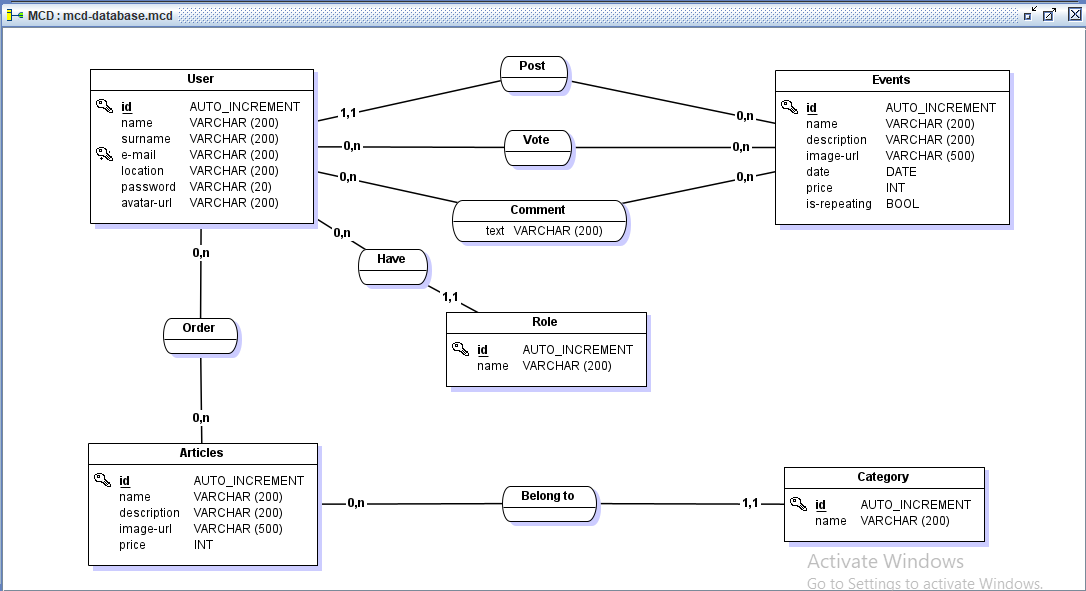
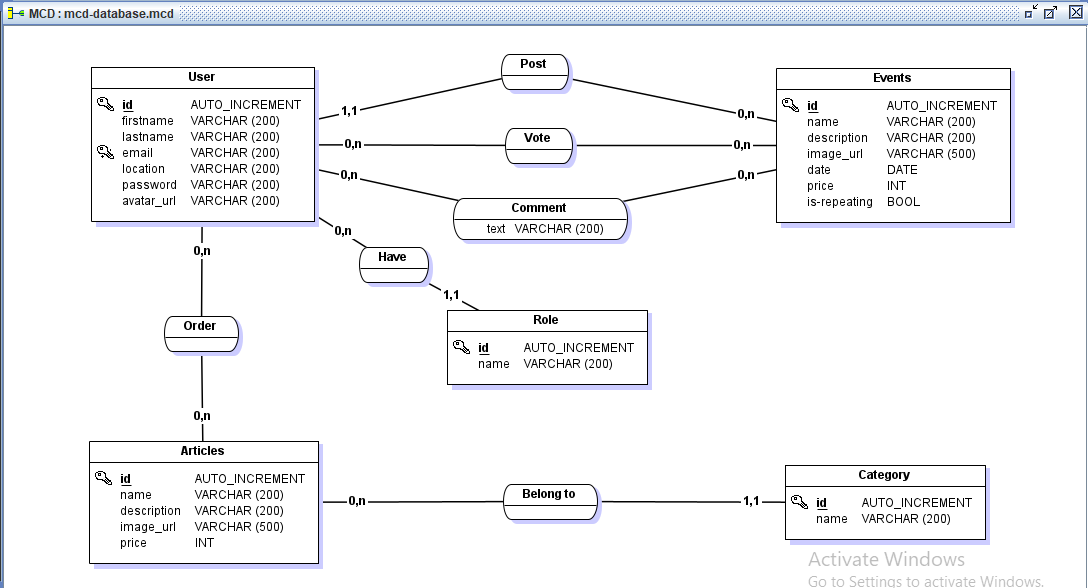
nodejs api, database-conception and mcd-database updated

diff --git a/api-rest/models/user.js b/api-rest/models/user.js
@@ -6,10 +6,10 @@ module.exports = {
 	// Define a prepared statement for creating a user
   create : (data, callBack) => {
     pool.query (
-      " INSERT INTO users (name, surname, email, location, password, avatar_url, id_events) VALUES (?, ?, ?, ?, ?, ?, ?)",
+      " INSERT INTO users (firstname, lastname, email, location, password, avatar_url, id_events) VALUES (?, ?, ?, ?, ?, ?, ?)",
       [
-        data.name,
-				data.surname,
+        data.firstname,
+				data.lastname,
 				data.email,
 				data.location,
 				data.password,
@@ -58,10 +58,10 @@ module.exports = {
 	// Define a prepared statement for updating a user
 	UpdateUser : (id, data, callBack) => {
 		pool.query(
-			"UPDATE users set name=?, surname=?, email=?, location=?, password=?, avatar_url=?, id_events=? WHERE id = ?",
+			"UPDATE users set firstname=?, lastname=?, email=?, location=?, password=?, avatar_url=?, id_events=? WHERE id = ?",
 			[
-				data.name,
-				data.surname,
+				data.firstname,
+				data.lastname,
 				data.email,
 				data.location,
 				data.password,

diff --git a/api-rest/models/event.js b/api-rest/models/event.js
@@ -43,7 +43,7 @@ module.exports = {
 	// Define a prepared statement for getting an event by user location
 	getEventsByLocation : (location, callBack) => {
 		pool.query(
-			"SELECT events.id, events.name, events.description, events.image_url, events.date, events.price, events.is_repeating FROM users INNER JOIN events ON users.id_events = events.id WHERE users.location = ? ORDER BY events.id ASC",
+			"SELECT events.id, events.name, events.description, events.image_url, events.date, events.price, events.is_repeating FROM users INNER JOIN events ON events.id_user = users.id WHERE users.location = ? ORDER BY events.id ASC",
 			[location],
 			(error, results, fields) => {
 				if (error) {

diff --git a/api-rest/models/article.js b/api-rest/models/article.js
@@ -41,7 +41,7 @@ module.exports = {
 	// Define a prepared statement for updating an article by user location
 	getArticlesByLocation : (location, callBack) => {
 		pool.query(
-			"SELECT articles.id, articles.name, articles.description, articles.image_url,articles.price FROM (articles NATURAL JOIN orders) INNER JOIN users ON orders.id_user = users.id WHERE users.location = ? ORDER BY articles.id",
+			"SELECT articles.id, articles.name, articles.description, articles.image_url, articles.price FROM (articles NATURAL JOIN orders) INNER JOIN users ON orders.id_user = users.id WHERE users.location = ? ORDER BY articles.id",
 			[location],
 			(error, results, fields) => {
 				if (error) {

diff --git a/app/resources/views/auth/login.blade.php b/app/resources/views/auth/login.blade.php
@@ -12,7 +12,8 @@
         <img src="{{asset('images/events.jpg')}}" class="img-fluid hero" alt="Hero image">
       </div>
       <div class="col-md-8 col-lg-6 col-xl-4 offset-xl-1">
-        <form>
+        <form method="POST">
+            @csrf
           <div class="d-flex flex-row align-items-center justify-content-center justify-content-lg-start">
             <h1 class="">Login</h1>
           </div>
@@ -22,13 +23,13 @@
           <!-- Email input -->
           <div class="form-outline mb-3">
             <label for="email">E-mail address</label>
-            <input type="email" id="email" class="form-control">
+            <input type="email" name="email" id="email" class="form-control">
           </div>
 
           <!-- Password input -->
           <div class="form-outline mb-3">
             <label for="password">Password</label>
-            <input type="password" id="password" class="form-control">
+            <input type="password" name="password" id="password" class="form-control">
           </div>
 
           <div class="d-flex justify-content-between align-items-center">
@@ -43,7 +44,7 @@
           </div>
 
           <div class="text-center text-lg-start mt-4 pt-2">
-            <button type="button" class="btn btn-primary btn-lg">Login</button>
+            <button type="submit" class="btn btn-primary btn-lg">Login</button>
             <p class="small fw-bold mt-2 pt-1 mb-0">Don't have an account ? <a href="register" class="link-info">Register</a></p>
           </div>
 

diff --git a/app/resources/views/auth/signup.blade.php b/app/resources/views/auth/signup.blade.php
@@ -37,7 +37,6 @@
               </div>
             </div>
 
-
             <div class="form-outline mb-3">
               <label class="form-label" for="form2Example18">E-mail address</label>
               <input type="email" name="email" id="email" class="form-control ">
@@ -56,10 +55,10 @@
             <div class="form-outline mb-3">
               <label class="form-label" for="password_confirm">Location</label>
               <select class="form-select" name="location" id="location">
-                <option value="">CESI Douala</option>
-                <option value="">CESI Rouen</option>
-                <option value="">CESI Paris</option>
-                <option value="">CESI Montpellier</option>
+                <option value="Douala">CESI Douala</option>
+                <option value="Rouen">CESI Rouen</option>
+                <option value="Paris">CESI Paris</option>
+                <option value="Montpellier">CESI Montpellier</option>
               </select>
             </div>
 

diff --git a/app/resources/views/templates/master.blade.php b/app/resources/views/templates/master.blade.php
@@ -37,10 +37,18 @@
                             <li><a href="#">About Us</a></li>
                             <li class="scroll-to-section"><a href="#contact">Contact Us</a></li>
 
+                            @if(Auth::user())
+                            <div class="cta d-flex gap-3">
+                                <a href="#">{{Auth::user()->surname}}</a>
+                                <a href="/logout">Logout</a>
+                            </div>
+    
+                            @else
                             <div class="cta d-flex gap-3">
                                 <a href="/login" class="btn btn-tertiary">Log In</a>
-                                <a href="/signup" class="btn btn-primary">Sign Up</a>
+                                <a href="/register" class="btn btn-primary">Sign Up</a>
                             </div>
+                            @endif
                         </ul>
 
                         <a class='menu-trigger'>

diff --git a/app/routes/auth.php b/app/routes/auth.php
@@ -51,6 +51,6 @@ Route::middleware('auth')->group(function () {
 
     Route::post('confirm-password', [ConfirmablePasswordController::class, 'store']);
 
-    Route::post('logout', [AuthenticatedSessionController::class, 'destroy'])
+    Route::get('logout', [AuthenticatedSessionController::class, 'destroy'])
                 ->name('logout');
 });

diff --git a/app/app/Models/User.php b/app/app/Models/User.php
@@ -34,13 +34,4 @@ class User extends Authenticatable
     protected $hidden = [
         'password',
     ];
-
-    /**
-     * The attributes that should be cast.
-     *
-     * @var array<string, string>
-     */
-    protected $casts = [
-        'email_verified_at' => 'datetime',
-    ];
 }

diff --git a/app/app/Http/Middleware/RedirectIfAuthenticated.php b/app/app/Http/Middleware/RedirectIfAuthenticated.php
@@ -23,7 +23,7 @@ class RedirectIfAuthenticated
 
         foreach ($guards as $guard) {
             if (Auth::guard($guard)->check()) {
-                return redirect(RouteServiceProvider::HOME);
+                return redirect('/');
             }
         }
 

diff --git a/app/app/Http/Controllers/Auth/AuthenticatedSessionController.php b/app/app/Http/Controllers/Auth/AuthenticatedSessionController.php
@@ -32,7 +32,7 @@ class AuthenticatedSessionController extends Controller
 
         $request->session()->regenerate();
 
-        return redirect()->intended(RouteServiceProvider::HOME);
+        return redirect()->intended('/');
     }
 
     /**

diff --git a/app/routes/web.php b/app/routes/web.php
@@ -17,8 +17,4 @@ Route::get('/', function () {
     return view('welcome');
 });
 
-Route::get('/dashboard', function () {
-    return view('dashboard');
-})->middleware(['auth'])->name('dashboard');
-
 require __DIR__.'/auth.php';

diff --git a/app/app/Http/Controllers/Auth/RegisteredUserController.php b/app/app/Http/Controllers/Auth/RegisteredUserController.php
@@ -56,6 +56,6 @@ class RegisteredUserController extends Controller
 
         Auth::login($user);
 
-        return redirect(RouteServiceProvider::HOME);
+        return redirect('/');
     }
 }
